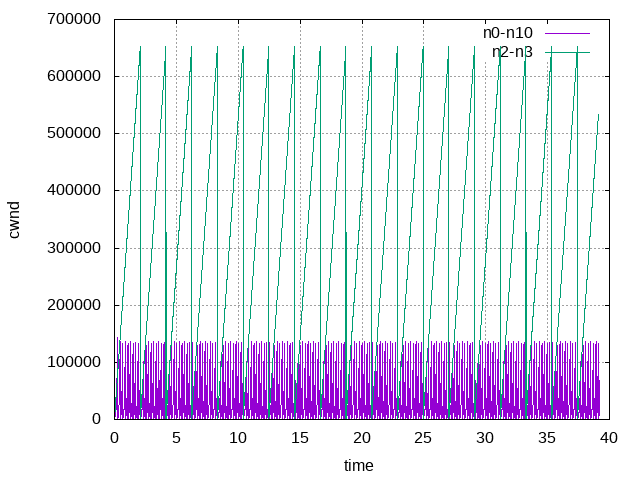
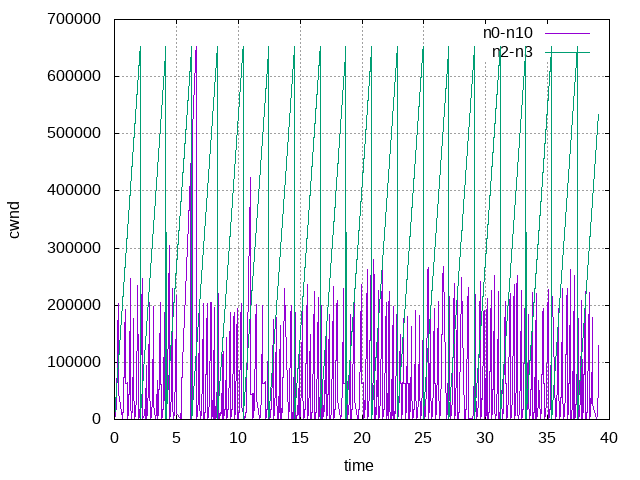
auto

Changed region(s): [[0.1562, 0.3125, 0.9375, 0.875], [0.375, 0.5312, 0.4062, 0.5625], [0.2812, 0.2188, 0.3125, 0.25]]

diff --git a/matrix/matrix.py b/matrix/matrix.py
@@ -2,6 +2,8 @@ import numpy as np
 import math
 import sys
 import os
+
+
 np.set_printoptions(threshold=sys.maxsize)
 np.set_printoptions(suppress=True)
 route = np.array([[0,0,0,0,0,0,0,0,0,0,0,0,0,0,0,0,0,0,0,0,0,0,0,0,0,0,0,0],
@@ -189,21 +191,30 @@ for c in range(col):
     od_loss_rate_log[:, c] = np.dot(route.T, link_loss_rate_log[:, c])
     od_loss_rate[:, c] = (-1 * np.exp(od_loss_rate_log[:, c])) + 1
     for i in range(110):
-        od_latent[:, c][i] = (
-            1 / math.exp(-13.1 * od_loss_rate[:, c][i])) * od_flow[:, c][i]
+        od_latent[:, c][i] = (1 / math.exp(-13.1 * od_loss_rate[:, c][i])) * od_flow[:, c][i]
     link_latent[:, c] = np.dot(route, od_latent[:, c])
 
-i = 1
+with open("./matrix/capas_sep", "a") as f:
+    for i in range(28):
+        print(f"{link_traf[:,1][i] * (1 / math.exp(-13.1 * link_loss_rate[:, 1][i]))}Mbps", file=f)
+
+with open("./matrix/capas_od", "a") as f2:
+    for c in link_latent[:,1]:
+        print(f"{c}MBps",file=f2)
+
+# i = 1
 # print("odflow\n", od_flow[:, i])
 # print("odlatent\n", od_latent[:, i])
-print("odloss\n", od_loss_rate[:, i])
+# print("odloss\n", od_loss_rate[:, i])
 
-print("linktraffic\n", link_traf[:, i])
-print("linklatent\n", link_latent[:, i])
+# print("linktraffic\n", link_traf[:, i])
+# print("linklatent\n", link_latent[:, i])
 
-print("linklossrate\n", link_loss_rate[:, i])
+# print("linklossrate\n", link_loss_rate[:, i])
 
-a = np.ones(110) * 5
-b = np.dot(route, a)
+# a = np.ones(110) * 5
+# b = np.dot(route, a)
 
-print(link_traf[:, i] / b)
+# print(link_traf[:, i] / b)
+
+

diff --git a/scratch/internet2.cc b/scratch/internet2.cc
@@ -411,7 +411,7 @@ main (int argc, char *argv[])
   // Setup traffic control queue
     TrafficControlHelper tch_lim, tch;
     // tch.SetRootQueueDisc ("ns3::FqCoDelQueueDisc");
-    tch.SetRootQueueDisc ("ns3::PfifoFastQueueDisc", "MaxSize", StringValue ("100p"));
+    tch.SetRootQueueDisc ("ns3::PfifoFastQueueDisc", "MaxSize", StringValue ("5p"));
     tch.Install (d0d1);
     tch.Install (d0d3);
     tch.Install (d1d2);
@@ -615,7 +615,7 @@ main (int argc, char *argv[])
             Ptr<Node> node = c.Get (i);
             Address sinkAddress = addresses[j];
             if (i == originNode && j == destinationNode){
-              app->Setup (tid, node ,sinkAddress, PACKET_SIZE, NUM_PACKETS, DataRate ("50Mbps"), "n" + std::to_string(i) + "-n" + std::to_string(j));
+              app->Setup (tid, node ,sinkAddress, PACKET_SIZE, NUM_PACKETS, DataRate ("35Mbps"), "n" + std::to_string(i) + "-n" + std::to_string(j));
             }else{
               app->Setup (tid, node ,sinkAddress, PACKET_SIZE, NUM_PACKETS, DataRate (DEFAULT_SEND_RATE), "n" + std::to_string(i) + "-n" + std::to_string(j));
             }
@@ -624,7 +624,7 @@ main (int argc, char *argv[])
             app->SetStopTime (Seconds (END_TIME - 1));
           }
         }
-      } 
+      }
   // Setup source applications end
 
 
